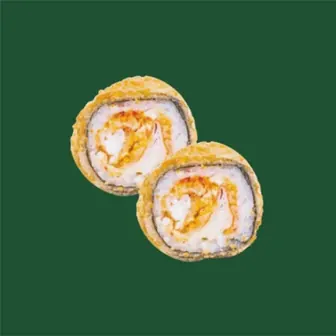
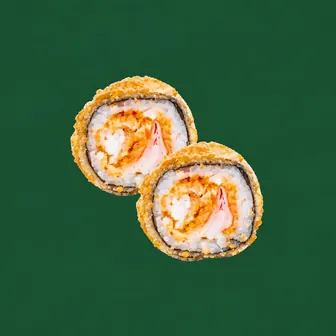
Update photo — Crunchy Pacific

Changed region(s): [[0.2083, 0.2083, 0.8036, 0.8036]]

diff --git a/src/data/dishImages.ts b/src/data/dishImages.ts
@@ -200,7 +200,7 @@ export const CLIENT_DISH_IMAGES: Record<string, string> = {
   "b2336232f7": "/menu-hd-onglet24/crunchy-casablanca.jpg",
   "b6bb8210a3": "/menu-hd-onglet24/crunchy-tiger-fry.png",
   "e8077d2295": "/menu-hd-onglet24/crunchy-dragon-eyes.jpg",
-  "e3a96c288b": "/menu-hd-onglet24/crunchy-pacific.png",
+  "e3a96c288b": "/menu-hd-onglet24/crunchy-pacific.jpg",
   "3583d51b73": "/menu-hd-onglet24/crunchy-fry-eby-fry.jpg",
   "45bca3a281": "/menu-hd-onglet24/crunchy-fry-salmon-fry.jpg",
   "53578ea799": "/menu-hd-onglet24/crunchy-osaka.jpg",

diff --git a/src/data/yumloMenu.ts b/src/data/yumloMenu.ts
@@ -1500,7 +1500,7 @@ export const YUMLO_MENU = [
     "description": "Crevette pané, surimi pané, cheese, tobiko 6 Pièces",
     "priceMAD": "55.25",
     "currency": "MAD",
-    "image": "/menu-hd-onglet24/crunchy-pacific.png"
+    "image": "/menu-hd-onglet24/crunchy-pacific.jpg"
   },
   {
     "id": "3583d51b73",
